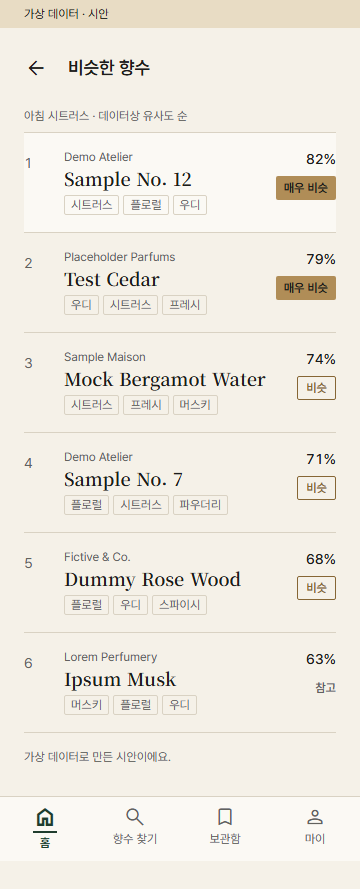
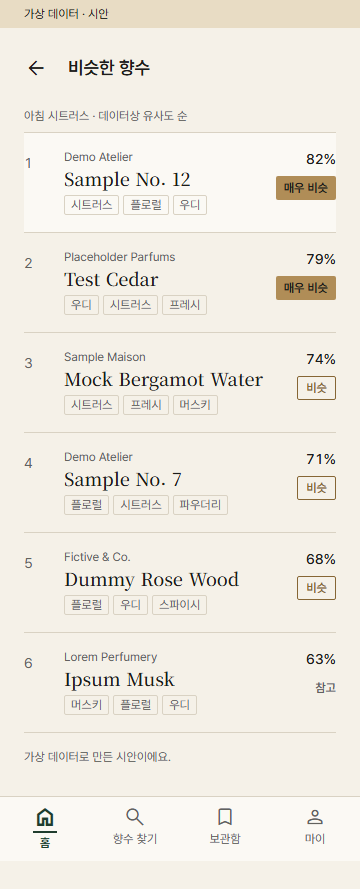
scent-studio: 세션 마무리 — 5-0 디자인 최종 OK, 시안 13장 모두 수정 반영해 다시 캡처, HANDOFF 정리(다음: 5-1 카탈로그, 11-25 Plan A/B 결정)

diff --git a/apps/scent-studio/HANDOFF.md b/apps/scent-studio/HANDOFF.md
@@ -1,14 +1,29 @@
 # scent-studio
-현재 단계: 4 (구현 — 단계 4(서버) 묶음 1~8 완료, **단계 4 서버 끝 → 단계 5(화면) 5-0 디자인 시안 검토 대기**(`docs/plan_stage5.md`) · 묶음 9 서버 작업 끝(2026-11-11, 테스트 계정 삭제·이메일 끄기는 단계 5 끝(Plan B) 또는 출시 직전(Plan A)으로 미룸). Render는 **8fb9e0a**(묶음 8·카카오 `/me`·OpenAPI·레드팀 1번 고침)까지 배포, 측정 주소 꺼짐. 카카오 로그인 ⏸ 보류(`docs/kakao_setup.md`). 계획·상태 `docs/plan_stage4.md`)
+현재 단계: 5 (화면) — **5-0 디자인 최종 OK(2026-11-11)**, 다음 **5-1 카탈로그**. 계획 `docs/plan_stage5.md`(사장 OK). 단계 4(서버)는 끝: Render **8fb9e0a**(묶음 8·카카오 `/me`·OpenAPI·레드팀 1번 고침) 배포, 측정 주소 꺼짐. 카카오 로그인 ⏸ 보류(`docs/kakao_setup.md`). **11-25 Plan A/B 결정**(`docs/plan_b_portfolio.md`)
 한 줄 설명: 탑·미들·베이스 노트를 골라 조합하면, 어코드 비중이 가장 비슷한 실제 향수를 추천하는 앱(Perfumer-LAB). 웹·안드로이드·아이폰 공통 (Expo/React Native 앱, Spring 서버, 데이터 작업은 Python)
-실행 방법: 아직 화면 없음 (뼈대만: `cd app && npx expo start --web`)
+실행 방법: 아직 화면 없음 (뼈대만: `cd app && npx expo start --web`). 디자인 시안: `docs/design/mock.html`(주소 끝 `#notes`·`#summary`·`#recs`·`#detail`), 캡처 `node docs/design/capture.mjs`
 테스트 실행: `bash tests/run.sh`
-리뷰 기준: 8bb26d4 (묶음 9 시작 직전)
-결과: 파이프라인 121/121 · TS 엔진(Vitest) 37/37 · 서버·DB(JUnit + 내장 Postgres) 639/639 통과 + 레드팀 도구 1 건너뜀 (2026-11-11 확인, `bash tests/run.sh`, 묶음 9 레드팀 1번 고침 포함). **승인 목록 1/41 (2026-11-09 승인으로 56개가 됨: J1~J8·K1~K7 추가, 화면 단계에서 테스트 코드 작성)** (`cd app && npx playwright test`, 2026-11-05 직접 확인. 화면 전이라 40개 실패는 정상 — run.sh에는 41/41이 되면 넣는다)
+리뷰 기준: 8bb26d4 (묶음 9 시작 직전) — 단계 5 첫 코드 묶음(5-1) 시작 때 새로 적는다
+결과: 파이프라인 121/121 · TS 엔진(Vitest) 37/37 · 서버·DB(JUnit + 내장 Postgres) 639/639 통과 + 레드팀 도구(`RedTeamRig`) 1 건너뜀 (2026-11-11 세션 끝 확인, `bash tests/run.sh`). **승인 목록 1/56**(화면 전, A~I 41 + J·K 15. 단계 5 목표 54/56 + 카카오 보류 2. `cd app && npx playwright test`로 따로, 다 통과하면 run.sh에 넣는다)
 사용자에게 남은 질문: 없음
-다음 할 일: **5-0 디자인 시안 사장 검토 대기**(`docs/design/design_rules.md`, `docs/design/shots/`). OK 뒤 5-1 카탈로그. 일정: 11-14 Fragrantica 추가 메일 → 11-18 Parfumo 추가 메일 → **11-25 Plan A/B 결정**. 다른 컴퓨터에서는 비공개 저장소 `pipeline-data-out/private_docs/`를 `pipeline/data/out/private_docs/`에 복사
+다음 할 일: **5-1 카탈로그**(`plan_stage5.md` 1절·2절): `dbCatalogFetch`(비공개 버킷 → 해시 확인 → 앱), 샘플 생성기(가상 브랜드 20·향수 300, 누가 봐도 가짜 이름), `CATALOG_SOURCE=real|sample` 준비 스크립트, 실제 이름 검사는 키 섞은 해시·비공개 있을 때만. 테스트 먼저. 다른 컴퓨터에서는 비공개 저장소 `pipeline-data-out/private_docs/`를 `pipeline/data/out/private_docs/`에 복사
 
-## ★ 다음 세션 시작 (2026-11-11 — 묶음 9 서버 끝, 공개 저장소 데이터 정리 끝, 단계 5 계획 사장 검토 대기, 11-25 Plan A/B 결정)
+## ★ 다음 세션 시작 (2026-11-11 세션 끝 — 5-0 디자인 최종 OK, 다음 5-1 카탈로그)
+1. **오늘(2026-11-11) 한 것:**
+   - **묶음 9 서버 마무리:** OpenAPI 정리(`docs/openapi.json`, 운영은 문서 주소 401) → Render 3bd0961 배포·확인 → **전체 API 10분 재측정: RSS 최대 208MB · 컨테이너 216MB / 기준 420MB**, 응답 시간(깨어 있을 때 단건) 중앙값 214~299ms · p95 307~465ms → IP 확인(`TRUSTED_PROXY_HOPS=1` 맞음, X-Forwarded-For 두 줄도 Render가 합쳐 실제 IP 맨 오른쪽).
+   - **레드팀**(26/26 주소, `docs/redteam.md`): 뚫림 1 = 틀린 토큰 20번이면 그 IP를 통째로 막아 같은 IP 정상 사용자도 429 → 사장 결정 "틀린 토큰만 막기"로 고침(맞는 토큰·토큰 없는 요청 통과, 만료·로그아웃 토큰은 세지 않고 IP 분당 60, 승인 테스트 4줄 사장 허락) → **8fb9e0a Render 배포·재공격 막힘** → 측정용 환경 변수 4개 삭제(사장)·`.env` DEBUG_TOKEN 비움 → `.redteam-needed` 지움. **배포 전 체크리스트 12개** ✓(해당 없음 3, 카카오 보류).
+   - **Plan B 문서**(`docs/plan_b_portfolio.md`): 공개 저장소 데이터 확인 → Fragrantica 향수별 수치 2곳 지움(①), **Parfumo 향수별 데이터 P1~P12 정리**(대량 표는 비공개, 검증 결과 숫자는 남김, `copy_suspects.csv`·고정본 json은 공개에서 뺌). 원본은 비공개 저장소 `pipeline-data-out/private_docs/`(24개), 생성 스크립트도 로컬 `pipeline/data/out/private_docs/`(커밋 안 함)에 씀. Plan B 확정 시 1-5 `git filter-repo` 걸러낸 사본(실행 전 사장 확인, 기존 저장소 강제 푸시 없음).
+   - **일정 변경**: Plan A = Fragrantica **와** Parfumo 둘 다 허가. **11-25 결정**. keepalive main 반영은 11-25에 Plan A일 때.
+   - **단계 5 계획** `docs/plan_stage5.md` 사장 OK: J1·J2(카카오) 보류 → 목표 54/56 + 보류 2(승인 테스트 수정 허락, 5-5에서), 안드로이드 빌드 방식 11-25 뒤(그 전엔 웹으로 확인), 샘플 300개·20브랜드 가짜 이름, 실제 이름 검사는 해시·비공개일 때만, CORS 실제 주소만.
+   - **5-0 디자인 최종 OK**: `docs/design/design_rules.md`(글꼴·크기·간격·컴포넌트), 토큰 `app/tailwind.config.js`, 시안 13장 `docs/design/shots/`. 강조는 "조합 처방전" 하나. 사장 수정 반영: "이 향수" 막대 골드 → 회갈색 `compare`(라이트 3.1:1·다크 3.9:1, 골드는 "매우 비슷" 배지만), 막대마다 "내 조합/이 향수" 글자+숫자, 누르는 영역 48dp(칩 보이는 36), "2 / 3단계" → "계열: …", 고른 칩 테두리 뺌, 다크 보조 글씨 대비 확인(최저 4.98:1, 그대로), PC 요약 오른쪽 추천 미리보기 3개.
+   - **글꼴 방식**(`design_rules.md` 2-1): 세리프 Noto Serif KR **500 하나**, 본문 Pretendard 400·500·600. 웹은 Pretendard 공식 동적 서브셋 + 세리프 2,350자 서브셋 woff2(355KB)를 직접 올림(외부 CDN 안 씀), 앱은 서브셋 ttf/otf 약 2.5MB.
+   - **이름 변경**: `docs/DESIGN.md`(Windows에서 `design.md`와 충돌) → `docs/design/design_rules.md`.
+2. **다음 세션 시작점 = 5-1 카탈로그.** `plan_stage5.md` 2절 묶음 표 순서(5-1 → 5-2 조합 … → 5-9 마무리). 각 묶음은 테스트 먼저 → 구현 → `bash tests/run.sh` → 리뷰 → 사장 보고.
+3. **멈추는 곳(사장 확인):** 단계 5 **각 묶음 끝**(캡처·결과 보고 후 OK 받고 다음), 5-1 실제 카탈로그 받기(미리 보기 → OK), 5-5 실제 로그인 확인, 5-7 출처·약관 문구, 5-9 앱 써 보기. **테스트 계정 삭제 → 이메일 새 가입 막기**는 **단계 5 끝(Plan B) 또는 출시 직전(Plan A)** — 그 전에 멈추고 묻는다(다시 만들지 않음).
+4. **사장 일정:** **11-14** Fragrantica 추가 메일 · **11-18** Parfumo 추가 메일(답이 없으면) · **11-25** Plan A/B 결정(둘 다 허가면 A). 11-11 Parfumo 첫 메일 보냄.
+5. 남은 서버 일(단계 5 안에서): CORS(실제 웹 주소만, `*` 거부 → `.redteam-needed` → 5-9 레드팀), 응답 record required 표시(OpenAPI), 베이스 이미지 digest 고정, Render 로그에 토큰·이메일 없는지(사장 확인), Tomcat HTML 400 → JSON(낮음), 바구니 지도 나누기(남은 것 6). 레드팀 로컬 서버: `RedTeamRig`.
+
+## (이전) 2026-11-11 세션 중간 기록 — 묶음 9 서버 끝, 데이터 정리
 1. **오늘 한 것:** OpenAPI 정리(3bd0961, `docs/openapi.json`) → Render 3bd0961 배포·확인 → 전체 API 10분 재측정 **RSS 최대 208MB / 기준 420MB** → IP 확인(`TRUSTED_PROXY_HOPS=1` 맞음, 두 줄 보내도 실제 IP 맨 오른쪽) → 레드팀(26/26 주소, 뚫림 1: 틀린 토큰 IP 막기가 같은 IP 정상 사용자도 막음) → 사장 결정 "틀린 토큰만 막기"로 고침(8fb9e0a) → Render 배포·재공격 막힘 → 측정용 환경 변수 4개 삭제(사장)·`.env` DEBUG_TOKEN 비움 → `.redteam-needed` 지움 → 배포 전 체크리스트 12개. 자세히는 NOTES "묶음 9", `docs/redteam.md`, `docs/review.md`.
 2. **멈춘 곳:** 공개 저장소 데이터 정리 끝(2026-11-11): Fragrantica 수치 2곳(①), Parfumo 향수별 데이터 P1~P12(`plan_b_portfolio.md` 1-4). 원본은 비공개 저장소 `pipeline-data-out/private_docs/`, 생성 스크립트도 그 폴더(로컬 `pipeline/data/out/private_docs/`)에 씀. Plan B 확정 시 1-5 걸러낸 사본(실행 전 사장 확인). **순서(사장 결정 2026-11-11):** 테스트 계정은 단계 5 로그인 확인에 쓰고 **단계 5 끝(Plan B) 또는 출시 직전(Plan A)**에 삭제(다시 만들지 않음) → 바로 뒤 이메일 새 가입 막기(Supabase에 이메일만 막는 설정은 없음 → `before_user_created` 훅 또는 Email 끄기) → `api_check.sh` 확인. keepalive main 반영은 11-25에 Plan A로 정해질 때만
 3. **묶음 9 남은 것(plan "묶음 9 배포 전 체크리스트"):** 실제 약관·방침 문구 → 동의 버전 올리기, 베이스 이미지 digest 고정, CORS(웹 출처 목록)·403 모양, Redirect URLs 등록, Render 로그에 토큰·이메일 없는지(사장 확인), 바구니 지도 나누기(남은 것 6), keepalive main 반영(이 브랜치에만 고침 — 예약 실행은 main에서만 돈다), Tomcat HTML 400을 JSON으로(레드팀 4번, 낮음).

diff --git a/HANDOFF.md b/HANDOFF.md
@@ -1,9 +1,9 @@
 # HANDOFF — 다음 세션 시작 가이드
 
-마지막 갱신: 2026-11-11 (scent-studio 묶음 9: OpenAPI·재측정 208MB·레드팀 뚫림 1 고침·8fb9e0a Render 배포·체크리스트 12, 테스트 계정 삭제 전 멈춤) / 2026-11-10 세션 끝 (scent-studio 묶음 8 계정 삭제 완료·실제 삭제 확인, V3 실제 적용, Render 6694790(묶음 6+7) 배포·확인, 카카오 로그인 ⏸ 보류 — 다음: 묶음 9. 묶음 8 이후 코드는 Render 미배포) / 2026-11-09 세션 끝 (scent-studio 묶음 7 코드 완료·V3 실제 DB 적용 전 멈춤) / 2026-11-08 세션 끝 (scent-studio 묶음 6 완료·묶음 7 전 멈춤. 다음: 사장 할 일 확인 → launch_checklist 프롬프트 A → 카탈로그 배포 → 묶음 7) / 2026-11-08 (scent-studio 묶음 6 코드 완료, 실제 카탈로그 배포 OK 대기·묶음 7 전 멈춤) / 2026-11-08 (scent-studio 묶음 5 완료, 묶음 6 전 멈춤 — 사장이 서버 전용 Secret key 만들기) / 2026-11-07 (scent-studio 묶음 1~4 완료, 세션 끝. 다음: 묶음 5, 묶음 6 전에 멈춤) / 2026-11-06 (scent-studio: Windows·Mac 둘 다 세팅 완료, 실측 대기) / 2026-11-06 (scent-studio 단계 4 묶음 1: Render 배포 완료, 실측 대기, 새 컴퓨터 설정 문서) / 2026-11-05 (10단계 등급 확정, 엔진 v8 동결, 단계 3 시작 전 사장 지시 대기) / 2026-11-05 (9단계 눈 평가 합격 4.38, 10단계 시작 전 사장 지시 대기) / 2026-11-05 (9단계 눈 평가 시트 준비 완료, 사장 점수 대기) / 2026-11-05 (8단계 블라인드 완료, 유의차 없음, v8 유지, 9단계 시작 전 사장 지시 대기) / 2026-11-05 (엔진 v8 적용, 8단계 블라인드 시작 전, 사장 지시 대기) / 2026-11-05 (합치기 겹침 검사 반영) / 2026-11-04 (v8 ★6 결정 완료, 7단계 시작 전, 사장 답 대기) / 2026-11-04 (오염 행 제외 확정, 재측정 완료) / 2026-11-04 (v7 채택, v8 후보 측정) / 2026-11-02 (엔진 v7 완료: 어코드·노트 강도, 비상업 운영) / 2026-11-01 (ai-workflow 견본 최신판 반영: CLAUDE.md를 rules·skills·hooks·agents로 나눔, /handoff 스킬, guard-git·protect-tests 훅, test-runner·qa-reviewer·red-team 에이전트)
+마지막 갱신: 2026-11-11 세션 끝 (scent-studio 단계 4 서버 끝(8fb9e0a 배포, 재측정 208MB, 레드팀 1번 고침, 체크리스트 12), Plan B 문서·공개 저장소 데이터 정리, 11-25 Plan A/B 결정, 단계 5 계획 OK, 5-0 디자인 최종 OK — 다음: 5-1 카탈로그) / 2026-11-10 세션 끝 (scent-studio 묶음 8 계정 삭제 완료·실제 삭제 확인, V3 실제 적용, Render 6694790(묶음 6+7) 배포·확인, 카카오 로그인 ⏸ 보류 — 다음: 묶음 9. 묶음 8 이후 코드는 Render 미배포) / 2026-11-09 세션 끝 (scent-studio 묶음 7 코드 완료·V3 실제 DB 적용 전 멈춤) / 2026-11-08 세션 끝 (scent-studio 묶음 6 완료·묶음 7 전 멈춤. 다음: 사장 할 일 확인 → launch_checklist 프롬프트 A → 카탈로그 배포 → 묶음 7) / 2026-11-08 (scent-studio 묶음 6 코드 완료, 실제 카탈로그 배포 OK 대기·묶음 7 전 멈춤) / 2026-11-08 (scent-studio 묶음 5 완료, 묶음 6 전 멈춤 — 사장이 서버 전용 Secret key 만들기) / 2026-11-07 (scent-studio 묶음 1~4 완료, 세션 끝. 다음: 묶음 5, 묶음 6 전에 멈춤) / 2026-11-06 (scent-studio: Windows·Mac 둘 다 세팅 완료, 실측 대기) / 2026-11-06 (scent-studio 단계 4 묶음 1: Render 배포 완료, 실측 대기, 새 컴퓨터 설정 문서) / 2026-11-05 (10단계 등급 확정, 엔진 v8 동결, 단계 3 시작 전 사장 지시 대기) / 2026-11-05 (9단계 눈 평가 합격 4.38, 10단계 시작 전 사장 지시 대기) / 2026-11-05 (9단계 눈 평가 시트 준비 완료, 사장 점수 대기) / 2026-11-05 (8단계 블라인드 완료, 유의차 없음, v8 유지, 9단계 시작 전 사장 지시 대기) / 2026-11-05 (엔진 v8 적용, 8단계 블라인드 시작 전, 사장 지시 대기) / 2026-11-05 (합치기 겹침 검사 반영) / 2026-11-04 (v8 ★6 결정 완료, 7단계 시작 전, 사장 답 대기) / 2026-11-04 (오염 행 제외 확정, 재측정 완료) / 2026-11-04 (v7 채택, v8 후보 측정) / 2026-11-02 (엔진 v7 완료: 어코드·노트 강도, 비상업 운영) / 2026-11-01 (ai-workflow 견본 최신판 반영: CLAUDE.md를 rules·skills·hooks·agents로 나눔, /handoff 스킬, guard-git·protect-tests 훅, test-runner·qa-reviewer·red-team 에이전트)
 
 ## 1. 한 줄 요약
-이석균 선배님 특강(AI 기초)의 방식대로 앱을 만드는 **작업장 견본**이다. 사용자는 **사장**, Claude의 팀들(기획·디자인·프론트엔드·백엔드·QA)은 **직원**이고, 모든 팀의 결과물은 사장 검토를 받는다. 규칙, `/build-app` 스킬, 교차 리뷰, 훅이 준비되어 있다. **진행 중인 앱: `apps/scent-studio`(향 조합 → 비슷한 향수 추천, 웹·안드로이드·아이폰 공통 Expo 앱) — 4단계 구현 중, v8은 P1 채택·M1 제외로 결정, 합치기 겹침 검사 반영, 엔진 v8 적용 완료, 8단계 블라인드 유의차 없음(v8 유지), 9단계 눈 평가 합격, 10단계 등급 확정, 엔진 v8 동결, 단계 3(DB) 완료, 단계 4(서버) 묶음 1~6 완료(V2 실제 DB 적용, 로그인·요청 제한, 취향·동의, 조합·찜·시향 기록, 사용 기록·카탈로그 코드, f51a886·84df7b4), 묶음 7 오류 신고(V3 실제 DB 적용·Render 6694790 배포, 2026-11-10), 묶음 8 계정 삭제 완료(실제 삭제 확인, Render 미배포), 카카오 로그인 ⏸ 보류(`apps/scent-studio/docs/kakao_setup.md`). 2026-11-09 실제 카탈로그 배포·진짜 Storage 확인, Render에 묶음 6 코드 배포(892a79f). 2026-11-08 사장 결정: 1차 기능 7개 추가(카카오 로그인·로그아웃·약관·개인정보·만 14세 동의 화면·데이터 출처·라이선스 화면·"추천이 이상해요" 신고·첫 실행 안내·앱 정보), Play 비공개 테스트(12명 이상·14일) 뒤 공개, 화면 세로 고정 — 문서 반영 완료(2026-11-09 프롬프트 A, 승인 목록 56개). 앱 안 카탈로그 파일은 옛 버전(2026.10.31, 엔진 6)이라 단계 5에서 교체. 이어 할 때는 브랜치 `wip/scent-studio-stage4`로 바꾸고(`git switch wip/scent-studio-stage4`) `apps/scent-studio/HANDOFF.md`의 "★ 지금 멈춘 곳" → "다음 세션에서 할 일"부터** (2026-11-05).
+이석균 선배님 특강(AI 기초)의 방식대로 앱을 만드는 **작업장 견본**이다. 사용자는 **사장**, Claude의 팀들(기획·디자인·프론트엔드·백엔드·QA)은 **직원**이고, 모든 팀의 결과물은 사장 검토를 받는다. 규칙, `/build-app` 스킬, 교차 리뷰, 훅이 준비되어 있다. **진행 중인 앱: `apps/scent-studio`(향 조합 → 비슷한 향수 추천, 웹·안드로이드·아이폰 공통 Expo 앱) — 4단계 구현 중, v8은 P1 채택·M1 제외로 결정, 합치기 겹침 검사 반영, 엔진 v8 적용 완료, 8단계 블라인드 유의차 없음(v8 유지), 9단계 눈 평가 합격, 10단계 등급 확정, 엔진 v8 동결, 단계 3(DB) 완료, 단계 4(서버) 묶음 1~6 완료(V2 실제 DB 적용, 로그인·요청 제한, 취향·동의, 조합·찜·시향 기록, 사용 기록·카탈로그 코드, f51a886·84df7b4), 묶음 7 오류 신고(V3 실제 DB 적용·Render 6694790 배포, 2026-11-10), 묶음 8 계정 삭제 완료(실제 삭제 확인, Render 미배포), 카카오 로그인 ⏸ 보류(`apps/scent-studio/docs/kakao_setup.md`). 2026-11-09 실제 카탈로그 배포·진짜 Storage 확인, Render에 묶음 6 코드 배포(892a79f). 2026-11-08 사장 결정: 1차 기능 7개 추가(카카오 로그인·로그아웃·약관·개인정보·만 14세 동의 화면·데이터 출처·라이선스 화면·"추천이 이상해요" 신고·첫 실행 안내·앱 정보), Play 비공개 테스트(12명 이상·14일) 뒤 공개, 화면 세로 고정 — 문서 반영 완료(2026-11-09 프롬프트 A, 승인 목록 56개). 앱 안 카탈로그 파일은 옛 버전(2026.10.31, 엔진 6)이라 단계 5에서 교체. **2026-11-11: 단계 4 서버 끝(Render 8fb9e0a), 단계 5(화면) 계획 OK·5-0 디자인 최종 OK → 다음 5-1 카탈로그. 11-25 Plan A/B 결정(Fragrantica·Parfumo 둘 다 허가면 A, 아니면 GitHub 포트폴리오 B, `apps/scent-studio/docs/plan_b_portfolio.md`).** 이어 할 때는 브랜치 `wip/scent-studio-stage4`로 바꾸고(`git switch wip/scent-studio-stage4`) `apps/scent-studio/HANDOFF.md`의 "★ 지금 멈춘 곳" → "다음 세션에서 할 일"부터** (2026-11-05).
 
 ## 2. 새 세션 시작 방법
 - 인텔리제이(또는 터미널)에서 이 폴더를 열고 `claude` 실행
